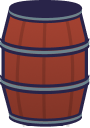
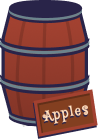
updated barrel and speed and z-indexes

diff --git a/src/game/components/player.ts b/src/game/components/player.ts
@@ -7,13 +7,12 @@ export class Player extends EntitySprite {
 	public inventory: Pickup | null = null;
 	public inventory_lock_timeout: number = 0;
 	public idle_timeout: number = 0;
-	public idle_animation_timer: number = 100;
 
 	constructor() {
 		super({
 			fileName: "b_s",
 			position: new Point(250, 250),
-			speed: 5,
+			speed: 8,
 			collide: true,
 			anchor: 0.5,
 			zIndex: LAYERS.player,
@@ -25,14 +24,7 @@ export class Player extends EntitySprite {
 			this.idle_timeout++;
 		}
 
-		let anim = (this.idle_timeout > this.idle_animation_timer) ? "01" : "00";
-
-		if (this.idle_timeout > this.idle_animation_timer * 2) {
-			this.idle_timeout = 0;
-		}
-
 		const holding = this.inventory ? "_hold" : "";
-
 		const facing: { [key: string]: string } = {
 			// idle
 			"0,0": "s",
@@ -80,7 +72,7 @@ export class Player extends EntitySprite {
 			this.inventory.position.y = this.position.y - this.height / 2 - this.inventory.height / 2;
 
 
-			if (this.inventory.checkIfInDropTarget()) {
+			if (this.inventory_lock_timeout <= 0 && this.inventory.checkIfInDropTarget()) {
 				this.inventory.drop();
 				this.inventory = null;
 				this.inventory_lock_timeout = 50;

diff --git a/src/game/game.ts b/src/game/game.ts
@@ -143,6 +143,7 @@ const config: Partial<ApplicationOptions> = {
 				!player.inventory &&
 				collideEntities(player.collider, p.collider)
 			) {
+				player.inventory_lock_timeout = 50;
 				player.inventory = p;
 				msg.classList.add("hid");
 				return;

diff --git a/src/game/components/pickup.ts b/src/game/components/pickup.ts
@@ -41,7 +41,6 @@ export class Pickup extends EntitySprite {
 			this.debug = false;
 			this.collide = false;
 			this.destroy();
-			console.debug("Dropped", this.uid)
 		}
 	};
 }

diff --git a/src/game/GLOBALS.ts b/src/game/GLOBALS.ts
@@ -2,5 +2,5 @@ export const LAYERS = {
     bg: 0,
     env: 1,
     pickup: 2,
-    player: 2,
+    player: 3,
 };
